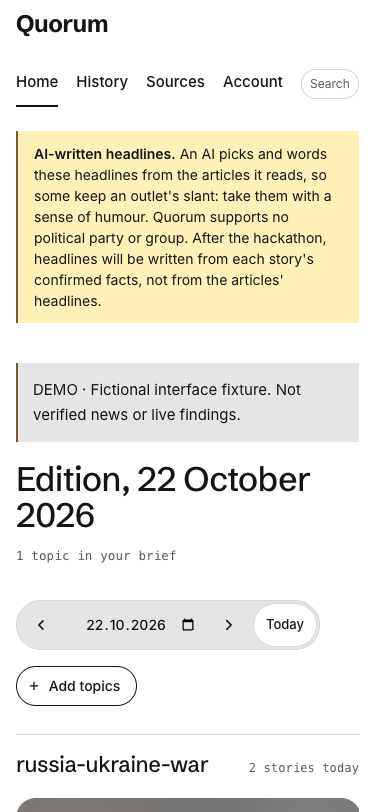
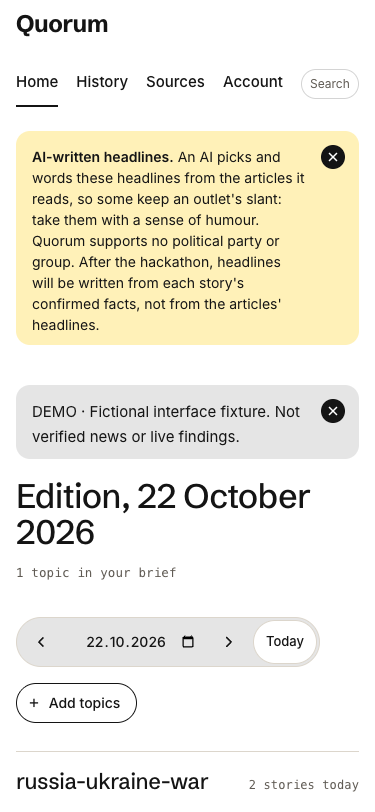
docs(reviews): the closable notices after, and Home with both closed; allowlist replaced
The after set retaken (Home and a story page, desktop and 375 px) with the closable, rounded notices, plus Home with both
notices closed, on the same FICTIONAL 22 October sample; the before set unchanged. The allowlist block in
scripts/security-check.py is rebuilt with the nine current hashes; the first after-set's hashes are gone, not stacked
(scanner PASS on 486 index files, scripts tests OK). README updated.

diff --git a/scripts/security-check.py b/scripts/security-check.py
@@ -151,17 +151,19 @@ REVIEWED_IMAGES.update({
 })
 
 
-# DECISION(2026-10-27, Anastasia/Claude Code): permit only these 8 inspected review captures of the AI headline notice
-# (anastasia/web-ux-ai-notice): Home and a story page before and after, desktop and phone, on the FICTIONAL 22 October
-# preview sample under a DEMO reader served by Playwright routes; no real edition, no credential. Why: Vadim's gate for
-# review PNGs (his f3e121e pattern); arbitrary binaries stay excluded.
+# DECISION(2026-10-27, Anastasia/Claude Code): permit only these 9 inspected review captures of the AI headline notice
+# (anastasia/web-ux-ai-notice): Home and a story page before and after (closable notices), desktop and phone, and Home
+# with both notices closed, on the FICTIONAL 22 October preview sample under a DEMO reader served by Playwright routes;
+# no real edition, no credential. The first after-set's hashes are replaced, not kept. Why: Vadim's gate for review
+# PNGs (his f3e121e pattern); arbitrary binaries stay excluded.
 REVIEWED_IMAGES.update({
[13 lines of base64/hex data omitted]
 })

diff --git a/docs/reviews/2026-10-27-web-ai-notice/README.md b/docs/reviews/2026-10-27-web-ai-notice/README.md
@@ -2,13 +2,14 @@
 
 Captures of branch `anastasia/web-ux-ai-notice` for the PR into `integration`. Home (`/dashboard`) and a story page, at
 1440 × 900 ("desktop") and 375 × 812 ("phone"), on production builds: "before" is integration 1a1e141, "after" the
-branch head. The pages show the FICTIONAL 22 October preview sample (russia-ukraine-war, the DEMO label on the page),
+branch head (closable notices, 2026-10-27). The pages show the FICTIONAL 22 October preview sample (russia-ukraine-war, the DEMO label on the page),
 served to the browser through Playwright routes with a DEMO reader: no account, no real edition, no credential.
 Decision: `docs/DECISIONS.md` › User account and interface, item 12; `web/DESIGN.md` › Components and › Color.
 
 | File | What it shows |
 | --- | --- |
 | home-before-desktop.png, home-before-phone.png | Home before: the DEMO label first, then the edition head. |
-| home-after-desktop.png, home-after-phone.png | Home after: the yellow AI headline notice first in the main column, under the site header and above the DEMO label and the title. |
+| home-after-desktop.png, home-after-phone.png | Home after: the yellow AI headline notice first in the main column, under the site header, then the DEMO label; both with rounded corners, no left edge and a white × on an ink circle to close them for the visit. |
 | story-before-desktop.png, story-before-phone.png | A story page before: the crumb, the DEMO label, the story's head. |
-| story-after-desktop.png, story-after-phone.png | The same story page after: the notice above the crumb and the story. |
+| story-after-desktop.png, story-after-phone.png | The same story page after: the notice above the crumb, the DEMO label under it, both closable. |
+| home-closed-desktop.png | Home with both notices closed: the edition head moves up; a new visit shows both again. |
